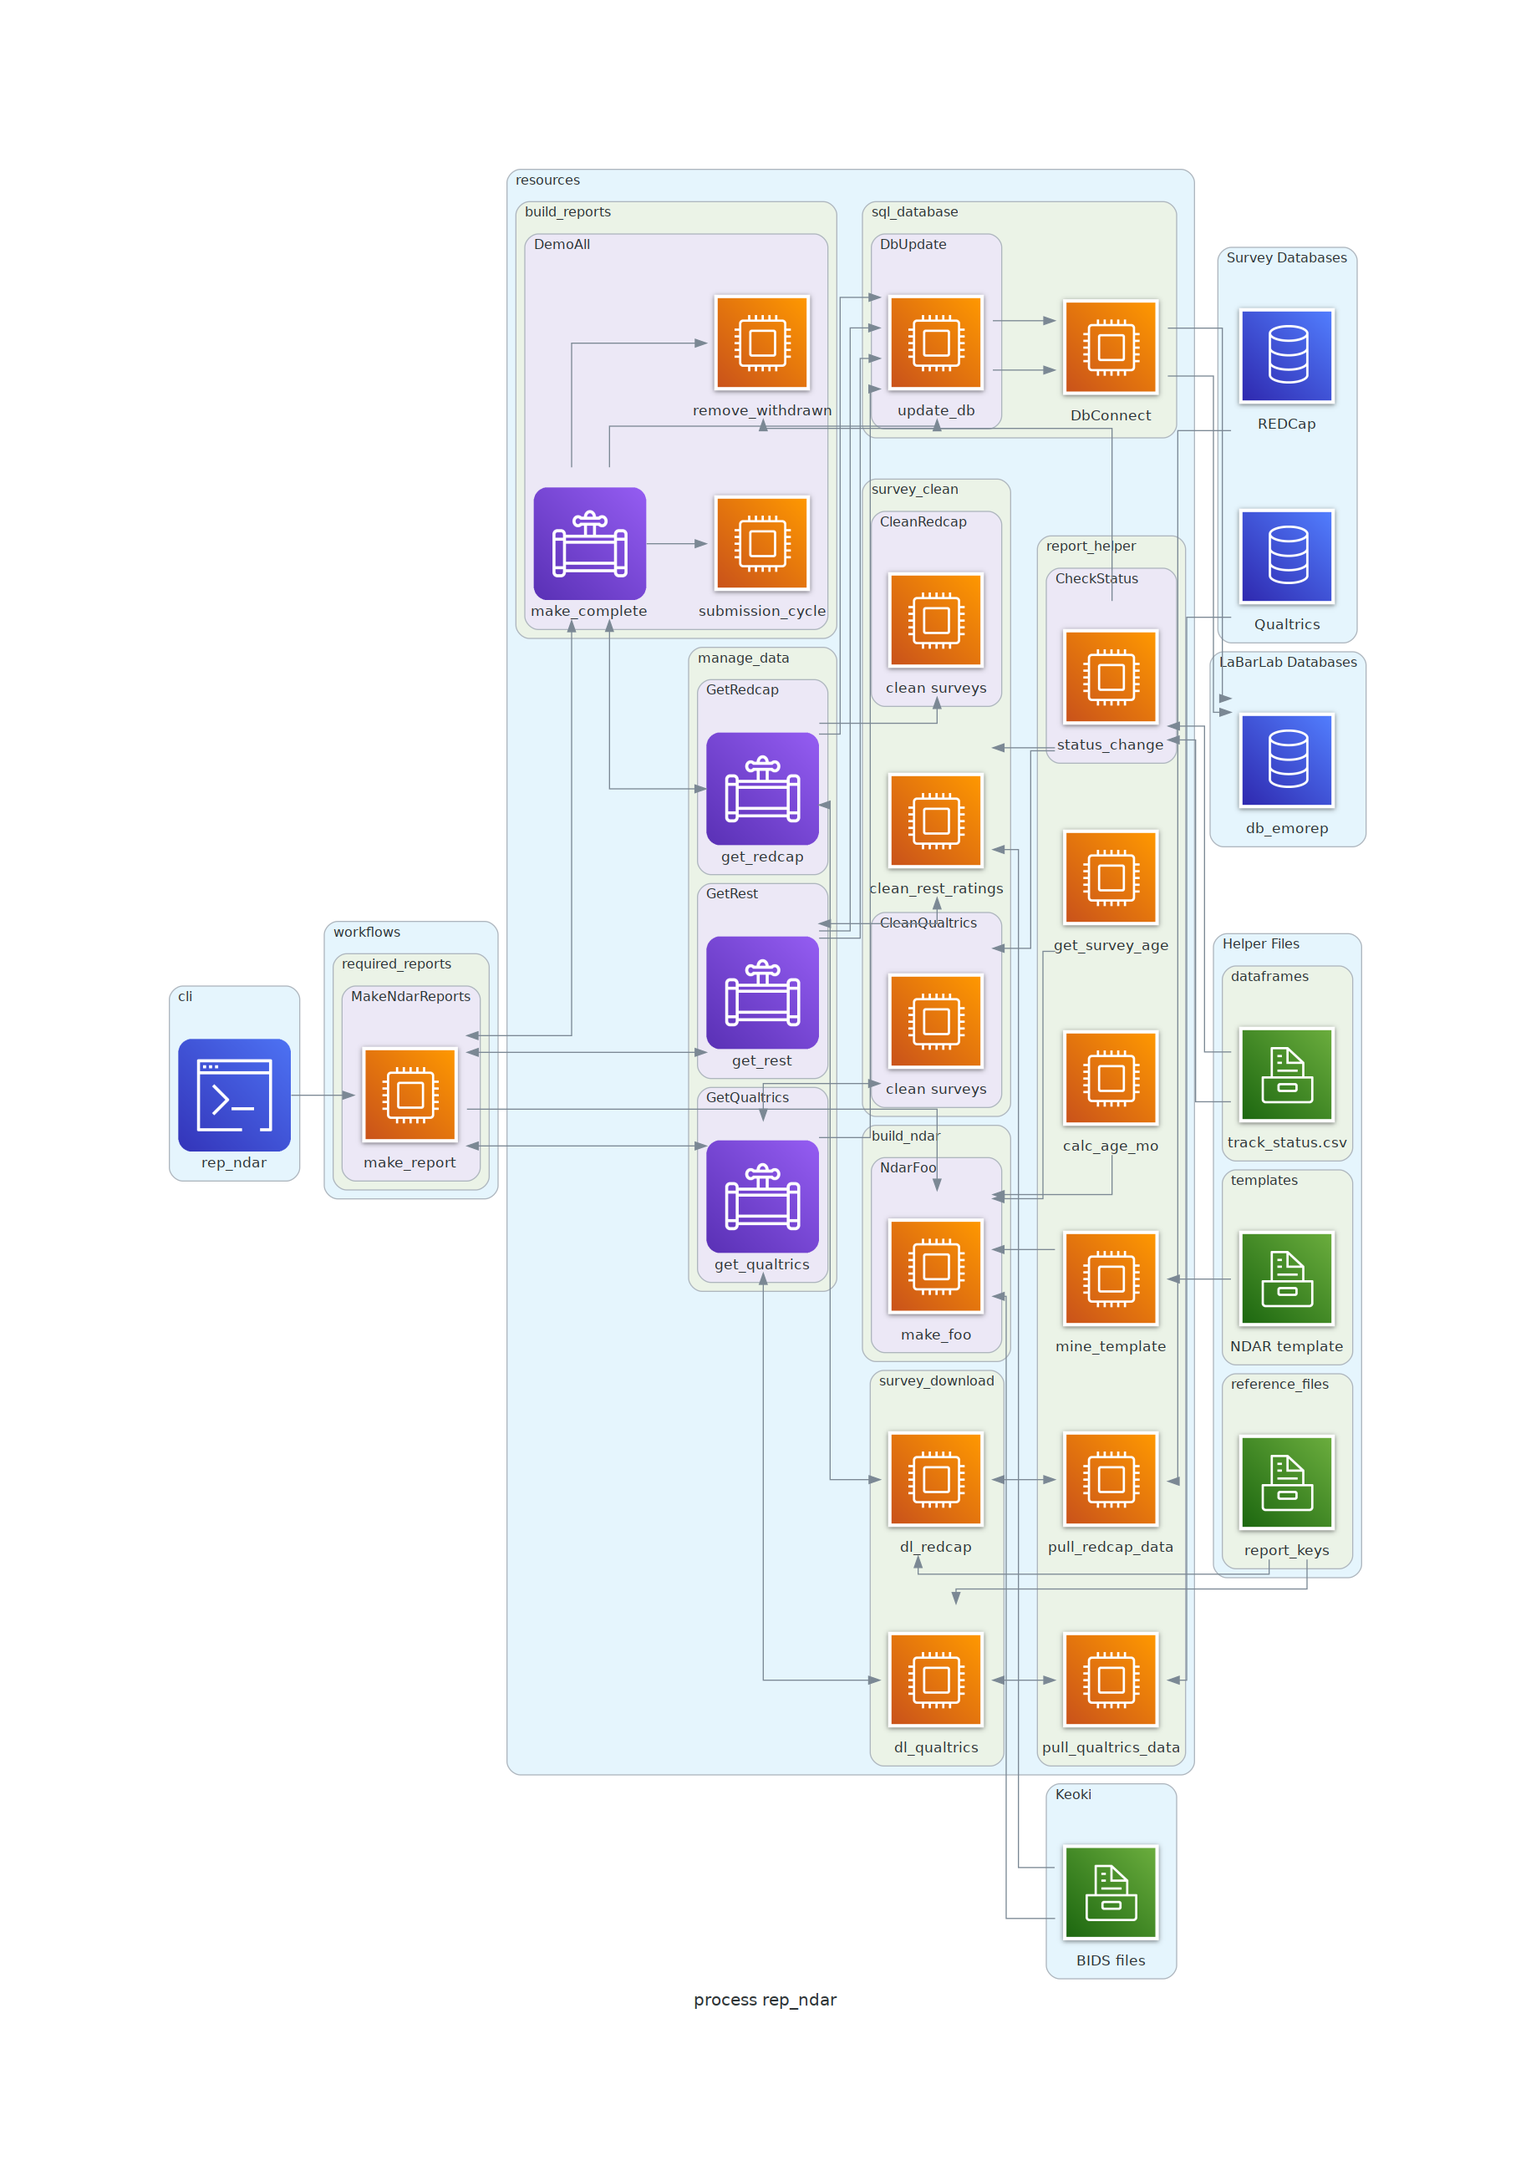
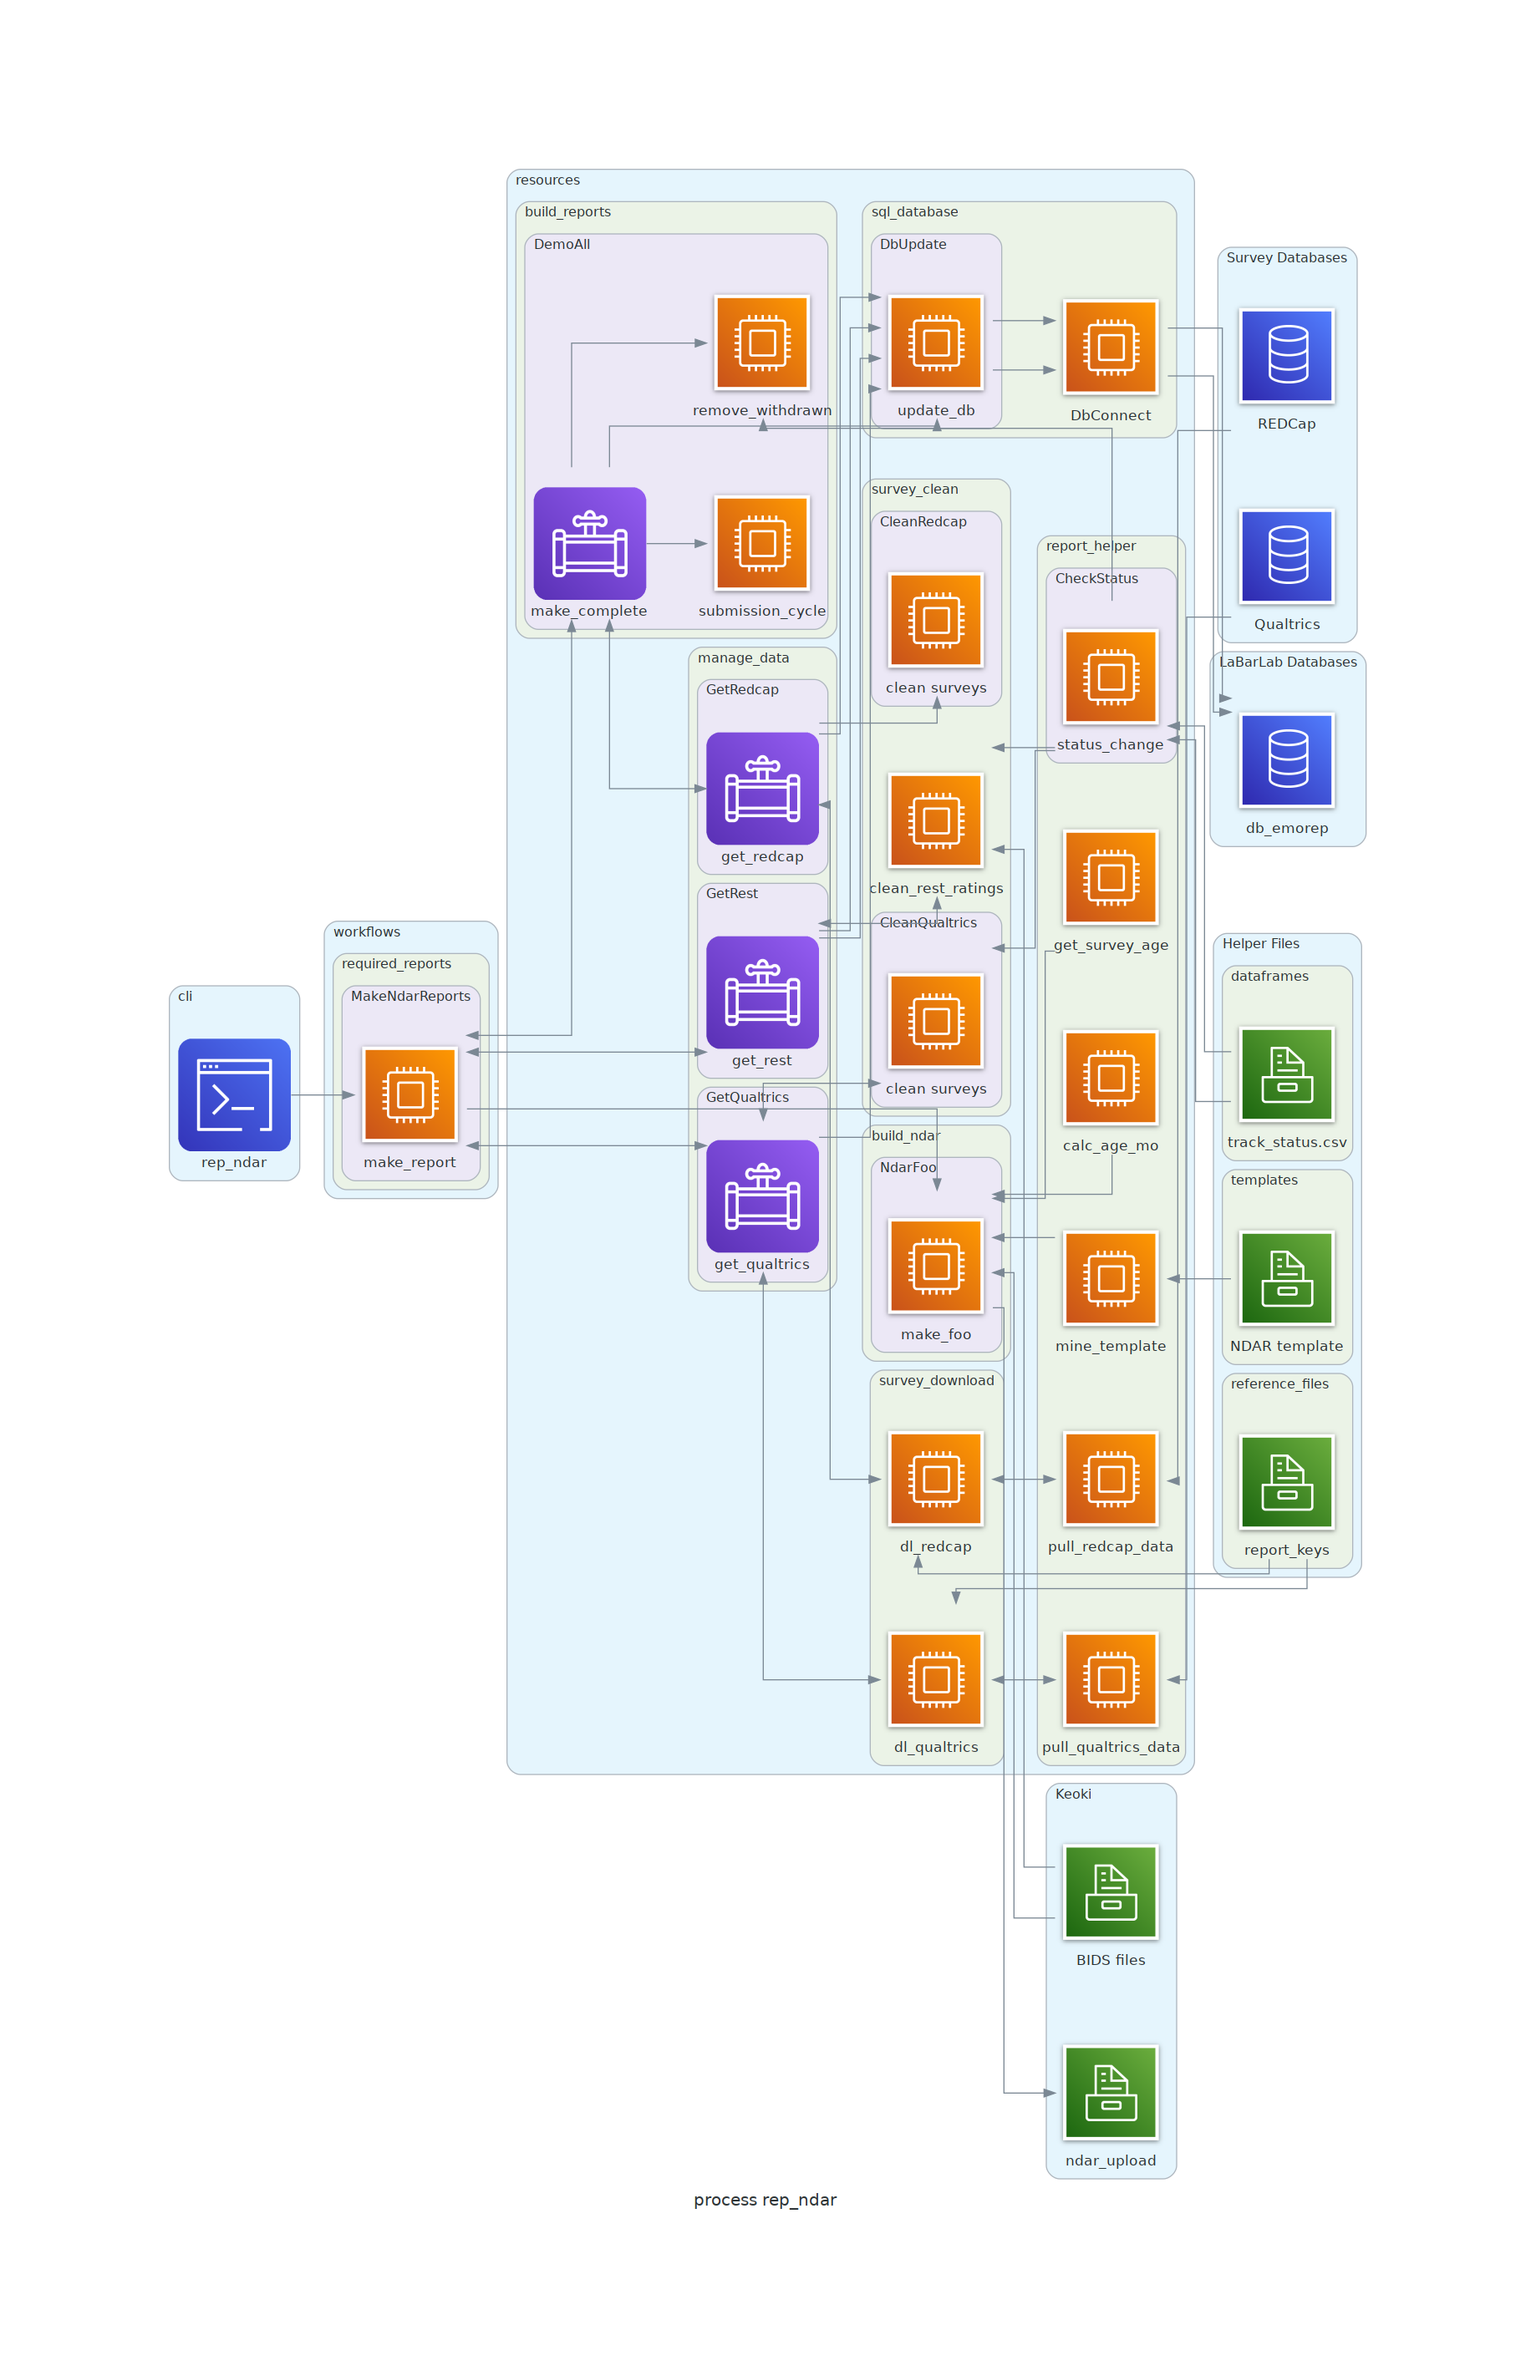
[DOC] updated readme for rep_ndar

Changed region(s): [[0.3111, 0.0622, 0.9023, 0.9332], [0.0933, 0.3733, 0.3422, 0.5599], [0.4667, 0.9021, 0.56, 0.9332]]

diff --git a/diagrams/mk_diagrams.py b/diagrams/mk_diagrams.py
@@ -423,6 +423,7 @@ with Diagram("process rep_ndar", graph_attr=graph_attr, show=False):
 
     with Cluster("Keoki"):
         bids_files = Storage("BIDS files")
+        ndar_reports = Storage("ndar_upload")
 
     with Cluster("resources"):
 
@@ -542,5 +543,6 @@ with Diagram("process rep_ndar", graph_attr=graph_attr, show=False):
     rsc_mk_ndar << rsc_get_sury_age
     rsc_mk_ndar << rsc_calc_age_mo
     rsc_mk_ndar << rsc_mine_tpl << ref_tpl
+    rsc_mk_ndar >> ndar_reports
 
 # %%

diff --git a/README.md b/README.md
@@ -150,7 +150,78 @@ Schematic mapping the `rep_get` workflow to specific modules and methods of `mak
 
 ## rep_regular
 
+
 ## rep_ndar
+This workflow generates datasets and reports required for the biannual NDAR upload. Reports are written to `/mnt/keoki/experiments2/EmoRep/Exp2_Compute_Emotion/ndar_upload/cycle_*` and associated data to `/mnt/keoki/experiments2/EmoRep/Exp2_Compute_Emotion/ndar_upload/data_[beh|mri|phys]`.
+
+
+### Setup
+- Generate and store API tokens for REDCap and Qualtrics in user environment (see [above](#general-requirements)).
+- Store MySQL password for `db_emorep` in user environment.
+
+
+### Usage
+Trigger sub-package help and usage via `$rep_ndar`:
+
+```
+(emorep)[nmm51-vm: ~]$rep_ndar
+usage: rep_ndar [-h] [--proj-dir PROJ_DIR] [--report-all] [--report-names REPORT_NAMES [REPORT_NAMES ...]] -c CLOSE_DATE
+
+Generate NDAR reports for EmoRep project.
+
+Organize project data and generate reports for regular
+NDAR submissions. Reports are written to:
+    <proj_dir>/ndar_upload/cycle_<close_date>
+
+Required data (e.g. image03) are copied to:
+    <proj_dir>/ndar_upload/data_<foo>
+
+Notes
+-----
+* Available reports:
+    affim01, als01, bdi01, brd01, demo_info01, emrq01,
+    image03, panas01, pswq01, restsurv01, rrs01,
+    stai01, tas01
+* Requires global variables 'PAT_REDCAP_EMOREP' and
+    'PAT_QUALTRICS_EMOREP' in user env, which hold the
+    personal access tokens to the emorep REDCap and
+    Qualtrics databases, respectively.
+
+Examples
+--------
+rep_ndar -c 2022-12-01 --report-names demo_info01 affim01
+rep_ndar -c 2022-12-01 --report-all
+
+optional arguments:
+  -h, --help            show this help message and exit
+  --proj-dir PROJ_DIR   Path to project's experiment directory
+                        (default : /mnt/keoki/experiments2/EmoRep/Exp2_Compute_Emotion)
+  --report-all          Make all planned NDA reports.
+                        True if "--report-all" else False.
+  --report-names REPORT_NAMES [REPORT_NAMES ...]
+                        Make specific NDA reports by name.
+                        e.g. --report-names affim01 als01
+
+Required Arguments:
+  -c CLOSE_DATE, --close-date CLOSE_DATE
+                        YYYY-MM-DD format.
+                        Close date for NDAR submission cycle, e.g.
+                        "--close-date 2022-12-01" for 2023-01-15
+                        submission. Used to submit data from
+                        participants in the correct cycle.
+
+```
+
+
+### Considerations
+- The file `make_reports.dataframes.track_status.csv` is curated manually.
+- Report column names are derived from `make_reports.reference_files.*_template.csv`.
+
+
+### Method Schema
+Schematic mapping of `rep_ndar` workflow to specific modules and methods of `make_reports`.
+![process_rep_ndar](diagrams/process_rep_ndar.png)
+
 
 ## rep_metrics
 This workflow generates snapshots of data to aid recruitment efforts, including demographics distrubtion, particpant retention, and scan pacing. Output files are written to `/mnt/keoki/experiments2/EmoRep/Exp2_Compute_Emotion/analyses/metrics_recruit`.
